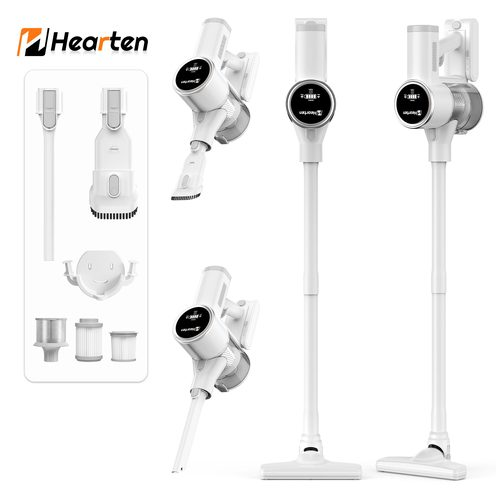
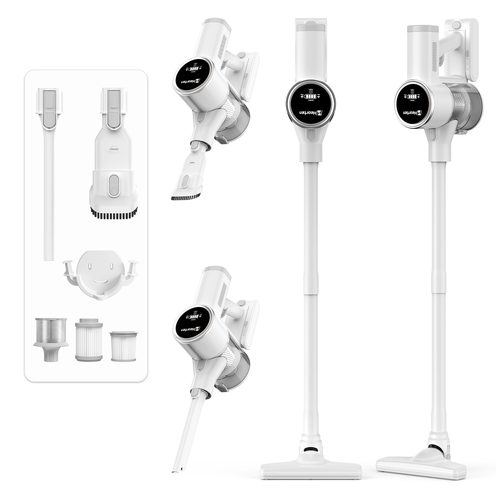
MARS-23 七轮(江楠「删LOGO+kg没对齐」): ① clean_logo.py 墨迹间隙法定位左上 Hearten 水印(MS21N-001/J1D白/AW-2),矩形填白出 assets/clean/,build _clean_override 优先;② 参数条/黑块/白格单位行内共享基线,kg 下伸部挂基线下;552/552,双版本水印区非白=0

Changed region(s): [[0.0302, 0.0302, 0.3024, 0.121]]

diff --git a/clean_logo.py b/clean_logo.py
@@ -1,0 +1,146 @@
+# -*- coding: utf-8 -*-
+"""江楠 10-02「删除掉这个LOGO」：洗掉产品图左上角叠加的 Hearten 水印。
+
+水印结构（vision 逐图复核）：图形徽标 + "Hearten" 斜体字标 + 下方渐隐
+镜面倒影。全册在用图扫描，仅 3 张带水印：MS21N 烘被机 P.24 / J1D 白款
+P.15 / AW-2 P.17。（CR208 红黑·铜的橙=机身本色，不碰。）
+
+定位（墨迹间隙法，实测字标"ten"是黑色、连通块会断，故不用 floodfill）：
+ 1) 橙色像素 bbox = 彩色主体；
+ 2) 橙行带 ±2 内按列投影(<243)向左/右扩段，容 6px 空列 → 锁块水平范围；
+ 3) 锁块列内按行投影定上下缘（容 2px 空行）；
+ 4) 倒影：自下缘逐行吃 <250 的淡灰行，遇深色行(<200，=主体)或整行干净停；
+ 5) 矩形外 4px 环硬校验：不得有墨迹(<243)，否则逐边内收；
+ 6) 矩形整体填白（其余像素零改动），出 chk 裁片供人眼复核。
+"""
+import os
+import sys
+
+HERE = os.path.dirname(os.path.abspath(__file__))
+sys.path[:0] = [os.path.join(HERE, "vendor"), HERE]
+
+from PIL import Image  # noqa: E402
+
+import catalog.build as B  # noqa: E402
+
+OUT = os.path.join(HERE, "assets", "clean")
+
+TARGETS = {
+    "a46f6f63eda348eca2ff2ff67695a53f.jpeg": "MS21N-001 烘被机 P.24",
+    "J1D-white.jpeg": "J1D 白款 P.15",
+    "8a83699bc8234a12a4e4bbbcb1292f5b.jpeg": "AW-2 P.17",
+}
+
+
+def main():
+    os.makedirs(OUT, exist_ok=True)
+    for fname, label in TARGETS.items():
+        src = B._find_in_gallery(fname) or os.path.join(HERE, "assets", "multi", fname)
+        rgb = Image.open(src).convert("RGB")
+        W, H = rgb.size
+        rp = rgb.load()
+
+        def m3(x, y):
+            r, g, b = rp[x, y]
+            return (r + g + b) // 3
+
+        # 1) 橙色 bbox（只搜左上 45%×35%）
+        xs = [x for y in range(int(H * .35)) for x in range(int(W * .45))
+              if rp[x, y][0] > 200 and 60 < rp[x, y][1] < 180 and rp[x, y][2] < 110]
+        ys = [y for y in range(int(H * .35)) for x in range(int(W * .45))
+              if rp[x, y][0] > 200 and 60 < rp[x, y][1] < 180 and rp[x, y][2] < 110]
+        assert xs, fname
+        ox0, ox1, oy0, oy1 = min(xs), max(xs), min(ys), max(ys)
+
+        # 2) 水平扩段（列投影，容 6px 空列）
+        def col_ink(x, y0, y1, th=243):
+            return any(m3(x, y) < th for y in range(y0, y1 + 1))
+        ty0, ty1 = max(0, oy0 - 2), oy1 + 2
+        lx0 = ox0
+        gap = 0
+        x = ox0 - 1
+        while x >= 0 and gap <= 6:
+            if col_ink(x, ty0, ty1):
+                lx0, gap = x, 0
+            else:
+                gap += 1
+            x -= 1
+        lx1 = ox1
+        gap = 0
+        x = ox1 + 1
+        while x < W and gap <= 6:
+            if col_ink(x, ty0, ty1):
+                lx1, gap = x, 0
+            else:
+                gap += 1
+            x += 1
+
+        # 3) 垂直缘（行投影，容 2px 空行）
+        def row_ink(y, th=243):
+            return any(m3(xx, y) < th for xx in range(lx0, lx1 + 1))
+        ty0 = oy0
+        gap = 0
+        y = oy0 - 1
+        while y >= 0 and gap <= 2:
+            if row_ink(y):
+                ty0, gap = y, 0
+            else:
+                gap += 1
+            y -= 1
+        ty1 = oy1
+        gap = 0
+        y = oy1 + 1
+        while y < H and gap <= 2:
+            if row_ink(y):
+                ty1, gap = y, 0
+            else:
+                gap += 1
+            y += 1
+
+        # 4) 倒影：从 ty1+1 逐行吃淡灰(<250)，遇深(≤200)或净(≥250)停
+        ry1 = ty1
+        y = ty1 + 1
+        while y < min(H, ty1 + 130):
+            vals = [m3(xx, y) for xx in range(lx0, lx1 + 1)]
+            faint = any(v < 250 for v in vals)
+            dark = any(v < 180 for v in vals)
+            if dark or not faint:
+                break
+            ry1 = y
+            y += 1
+
+        # 5) 外环校验 + 内收
+        rx0, rx1, ry0, ry1s = lx0 - 1, lx1 + 1, ty0 - 1, ry1 + 1
+        for _ in range(12):
+            ring_bad = False
+            for x in range(rx0, rx1 + 1):
+                if (ry0 - 4 >= 0 and m3(x, ry0 - 4) < 243) or \
+                   (ry1s + 4 < H and m3(x, ry1s + 4) < 243):
+                    ring_bad = True
+            for y in range(ry0, ry1s + 1):
+                if (rx0 - 4 >= 0 and m3(rx0 - 4, y) < 243) or \
+                   (rx1 + 4 < W and m3(rx1 + 4, y) < 243):
+                    ring_bad = True
+            if not ring_bad:
+                break
+            rx0 += 1; rx1 -= 1; ry0 += 1; ry1s -= 1
+
+        assert rx1 - rx0 > 40 and ry1s - ry0 > 10, "矩形收没了"
+        # 锁块必须在左上、不吞主体（面积上限）
+        assert rx1 < W * 0.45 and ry1s < H * 0.45, "锁块越界 %s" % ((rx0, ry0, rx1, ry1s),)
+        px = rgb.load()
+        for y in range(ry0, ry1s + 1):
+            for x in range(rx0, rx1 + 1):
+                px[x, y] = (255, 255, 255)
+        out = os.path.join(OUT, fname)
+        rgb.save(out, quality=95)
+        print("%-22s 橙[%d,%d..%d,%d] 锁块[%d,%d..%d,%d] 倒影底=%d -> assets/clean/%s"
+              % (label, ox0, oy0, ox1, oy1, rx0, ry0, rx1, ry1s, ry1, fname))
+        rgb.crop((max(0, rx0 - 150), max(0, ry0 - 150),
+                  min(W, rx1 + 300), min(H, ry1s + 260))) \
+           .save(os.path.join(OUT, "chk_" + fname.split(".")[0] + ".png"))
+    print("OK")
+
+
+if __name__ == "__main__":
+    main()

diff --git a/catalog/m2.py b/catalog/m2.py
@@ -253,10 +253,21 @@ class M2Page(Page):
         widths = [F.string_width_mm(s, F_LATIN_REG if lat else F_CN_REG, size)
                   for s, lat in segs]
         x = cx - sum(widths) / 2.0
+        # 2026-10-02 江楠「每个产品图下方的 kg 都没有对齐」：原实现每段各自
+        # 按"墨迹下沿"落位——kg/pcs 这类带下伸部的单位（below≈0.52mm）与
+        # 数字（below≈0.02mm）下沿对齐 = 基线不齐，视觉上 kg 悬在半空。
+        # 改为行内共享基线：以首个非空段为基准，各段墨迹下沿 = 基准下沿 +
+        # (该段 below − 基准 below)，下伸部自然挂到基线以下（印刷口径）。
+        base = None
         for (s, lat), w in zip(segs, widths):
             font = F_LATIN_REG if lat else F_CN_REG
+            m = ink_mm(font, size, s)
+            if base is None and s.strip() and m:
+                base = m["below"]
+            b = base if base is not None else (m["below"] if m else 0.0)
             color = T.MUTED if s.strip() == D.MISSING else T.BODY
-            self.text_inkb(x, ink_bottom, s, font, size, color)
+            self.text_inkb(x, ink_bottom + (m["below"] - b) if m else ink_bottom,
+                           s, font, size, color)
             x += w
 
     # -------------------------------------------------------------- 右栏
@@ -311,7 +322,10 @@ class M2Page(Page):
             gx = blk_cx - (vw + uw) / 2.0
             self.text_inkb(gx, 34.0, val, F_LATIN_HEAVY, nsize, T.WHITE)
             if unit:
-                self.text_inkb(gx + vw + M["blk_unit_gap"], 34.0, unit,
+                # 单位与数值**共享基线**（江楠 kg 对齐口径）：单位墨迹下沿
+                # = 数值下沿 + (单位 below − 数值 below)，g/p 下伸部挂到基线下。
+                ub = um["below"] - (m["below"] if m else 0.0) if um else 0.0
+                self.text_inkb(gx + vw + M["blk_unit_gap"], 34.0 + ub, unit,
                                F_LATIN_MED, usize, T.ACCENT)
 
         # ---- 白底格：2 个实测主参数 + 起订量 ----
@@ -353,8 +367,10 @@ class M2Page(Page):
                 self.text_inkb(gx, M["cell_num_cy"] + dy + 10.9, value,
                                F_LATIN_HEAVY, size, T.INK)
                 if unit:
+                    # 单位与数值共享基线（同黑块口径）
+                    ub = um["below"] - (m["below"] if m else 0.0) if um else 0.0
                     self.text_inkb(gx + vw + M["blk_unit_gap"],
-                                   M["cell_num_cy"] + dy + 10.9, unit,
+                                   M["cell_num_cy"] + dy + 10.9 + ub, unit,
                                    F_LATIN_MED, usize, T.MUTED)
 
         # ---- Ellylife 变体：右栏底部 Ellylife Logo（高 4.2mm）----

diff --git a/catalog/build.py b/catalog/build.py
@@ -194,8 +194,20 @@ _DIR_ALIAS = {
 }
 
 
+def _clean_override(filename):
+    """水印清洗件（assets/clean/<同名>）优先——江楠 10-02 删左上角 Hearten 水印。
+
+    只改在用图的入册副本；GALLERY_ROOT 原件保持不动。
+    """
+    p = os.path.join(ROOT, "assets", "clean", filename)
+    return p if os.path.exists(p) else None
+
+
 def _find_in_gallery(filename):
     """按文件名在 GALLERY_ROOT 下检索（唯一权威定位方式）。"""
+    c = _clean_override(filename)
+    if c:
+        return c
     if not GALLERY_ROOT or not os.path.isdir(GALLERY_ROOT):
         return None
     for dirpath, _dirs, files in os.walk(GALLERY_ROOT):
@@ -255,7 +267,7 @@ def resolve_multi(model, root=ROOT):
     """同页多色图列表 [(绝对路径, 色款标签), ...]；无则空表。"""
     out = []
     for rel, label in MULTI_MAIN.get(model, ()):
-        p = os.path.join(root, rel)
+        p = _clean_override(os.path.basename(rel)) or os.path.join(root, rel)
         if os.path.exists(p):
             out.append((p, label))
     return out
